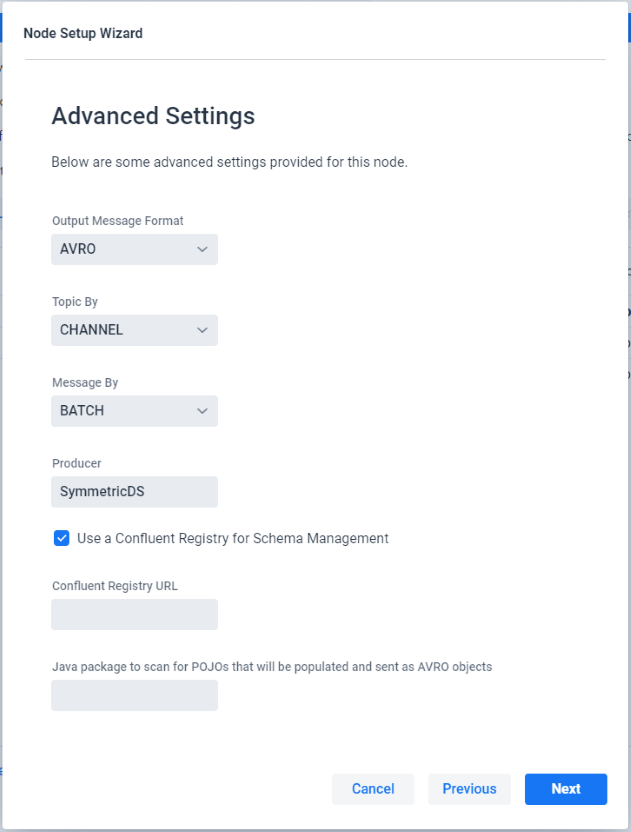
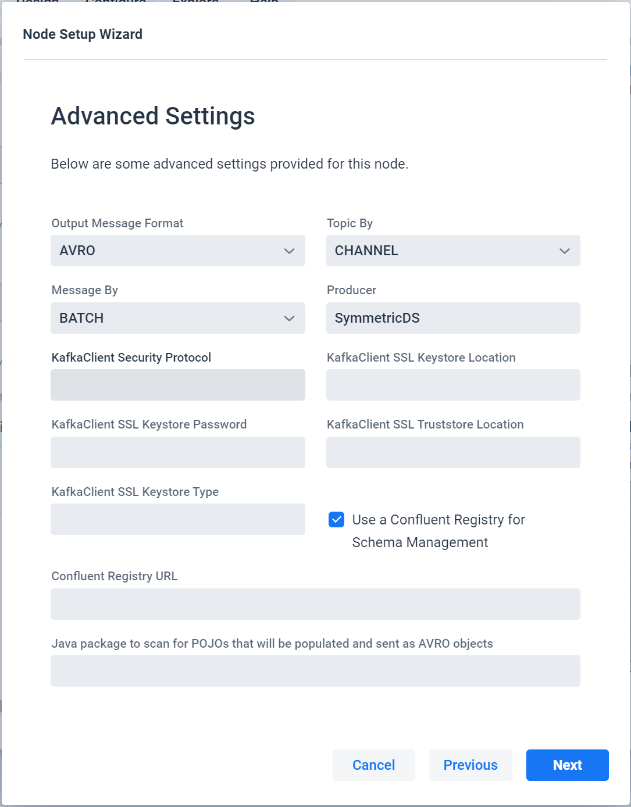
0005112: Added constants for Kafka advanced settings

diff --git a/symmetric-core/src/main/java/org/jumpmind/symmetric/common/ParameterConstants.java b/symmetric-core/src/main/java/org/jumpmind/symmetric/common/ParameterConstants.java
@@ -420,8 +420,15 @@ final public class ParameterConstants {
     public final static String KAFKA_TOPIC_BY = "kafka.topic.by";
     public final static String KAFKA_CONFLUENT_REGISTRY_URL = "kafka.confluent.registry.url";
     public final static String KAFKA_AVRO_JAVA_PACKAGE = "kafka.avro.java.package";
+    public final static String KAFKACLIENT_SECURITY_PROTOCOL = "kafkaclient.security.protocol";
+    public final static String KAFKACLIENT_SSL_KEYSTORE_LOCATION = "kafkaclient.ssl.keystore.location";
+    public final static String KAFKACLIENT_SSL_KEYSTORE_PASSWORD = "kafkaclient.ssl.keystore.password";
+    public final static String KAFKACLIENT_SSL_TRUSTSTORE_LOCATION = "kafkaclient.ssl.truststore.location";
+    public final static String KAFKACLIENT_SSL_KEYSTORE_TYPE = "kafkaclient.ssl.keystore.type";
     public final static String[] ALL_KAFKA_PARAMS = new String[] { KAFKA_PRODUCER, KAFKA_FORMAT, KAFKA_MESSAGE_BY,
-            KAFKA_TOPIC_BY, KAFKA_CONFLUENT_REGISTRY_URL, KAFKA_AVRO_JAVA_PACKAGE };
+            KAFKA_TOPIC_BY, KAFKA_CONFLUENT_REGISTRY_URL, KAFKA_AVRO_JAVA_PACKAGE, KAFKACLIENT_SECURITY_PROTOCOL,
+            KAFKACLIENT_SSL_KEYSTORE_LOCATION, KAFKACLIENT_SSL_KEYSTORE_PASSWORD, KAFKACLIENT_SSL_TRUSTSTORE_LOCATION,
+            KAFKACLIENT_SSL_KEYSTORE_TYPE };
     public final static String SNOWFLAKE_STAGING_TYPE = "snowflake.staging.type";
     public final static String SNOWFLAKE_INTERNAL_STAGE_NAME = "snowflake.internal.stage.name";
     public final static String CLOUD_BULK_LOAD_MAX_ROWS_BEFORE_FLUSH = "cloud.bulk.load.max.rows.before.flush";
